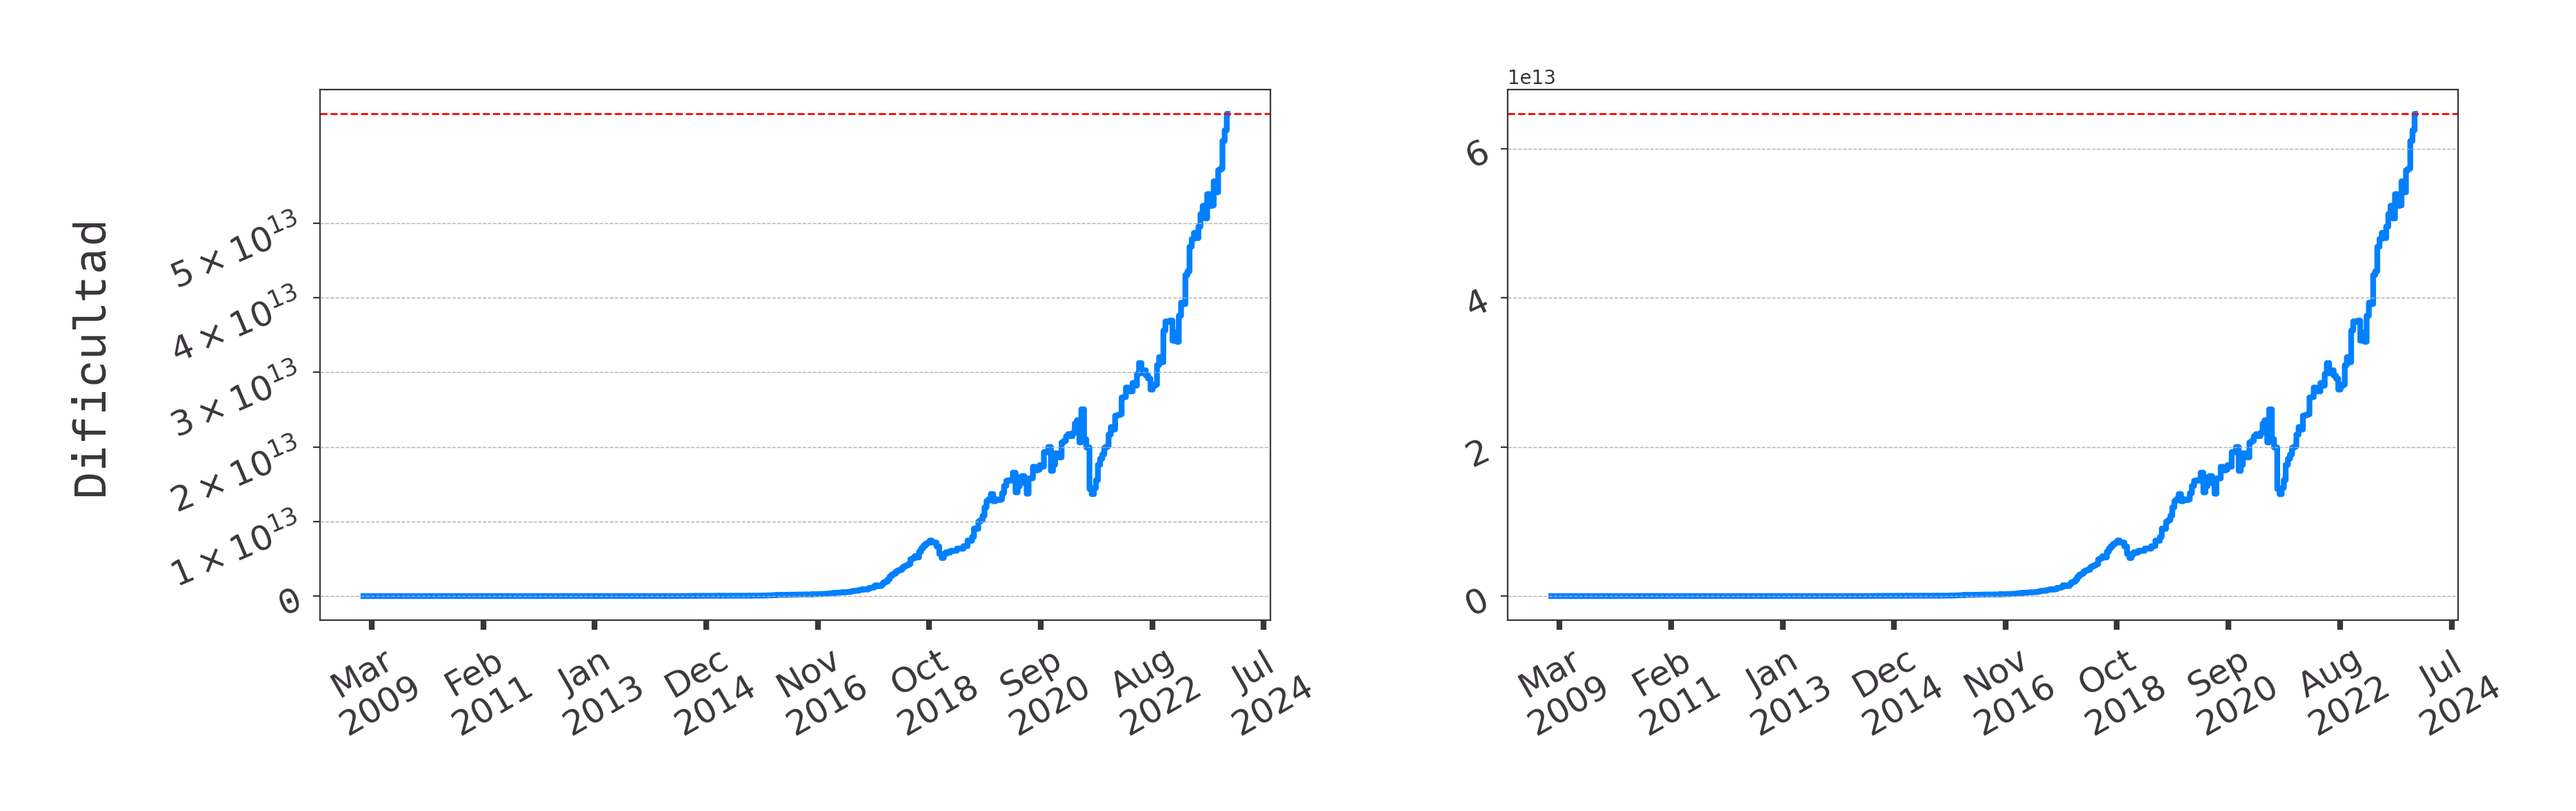
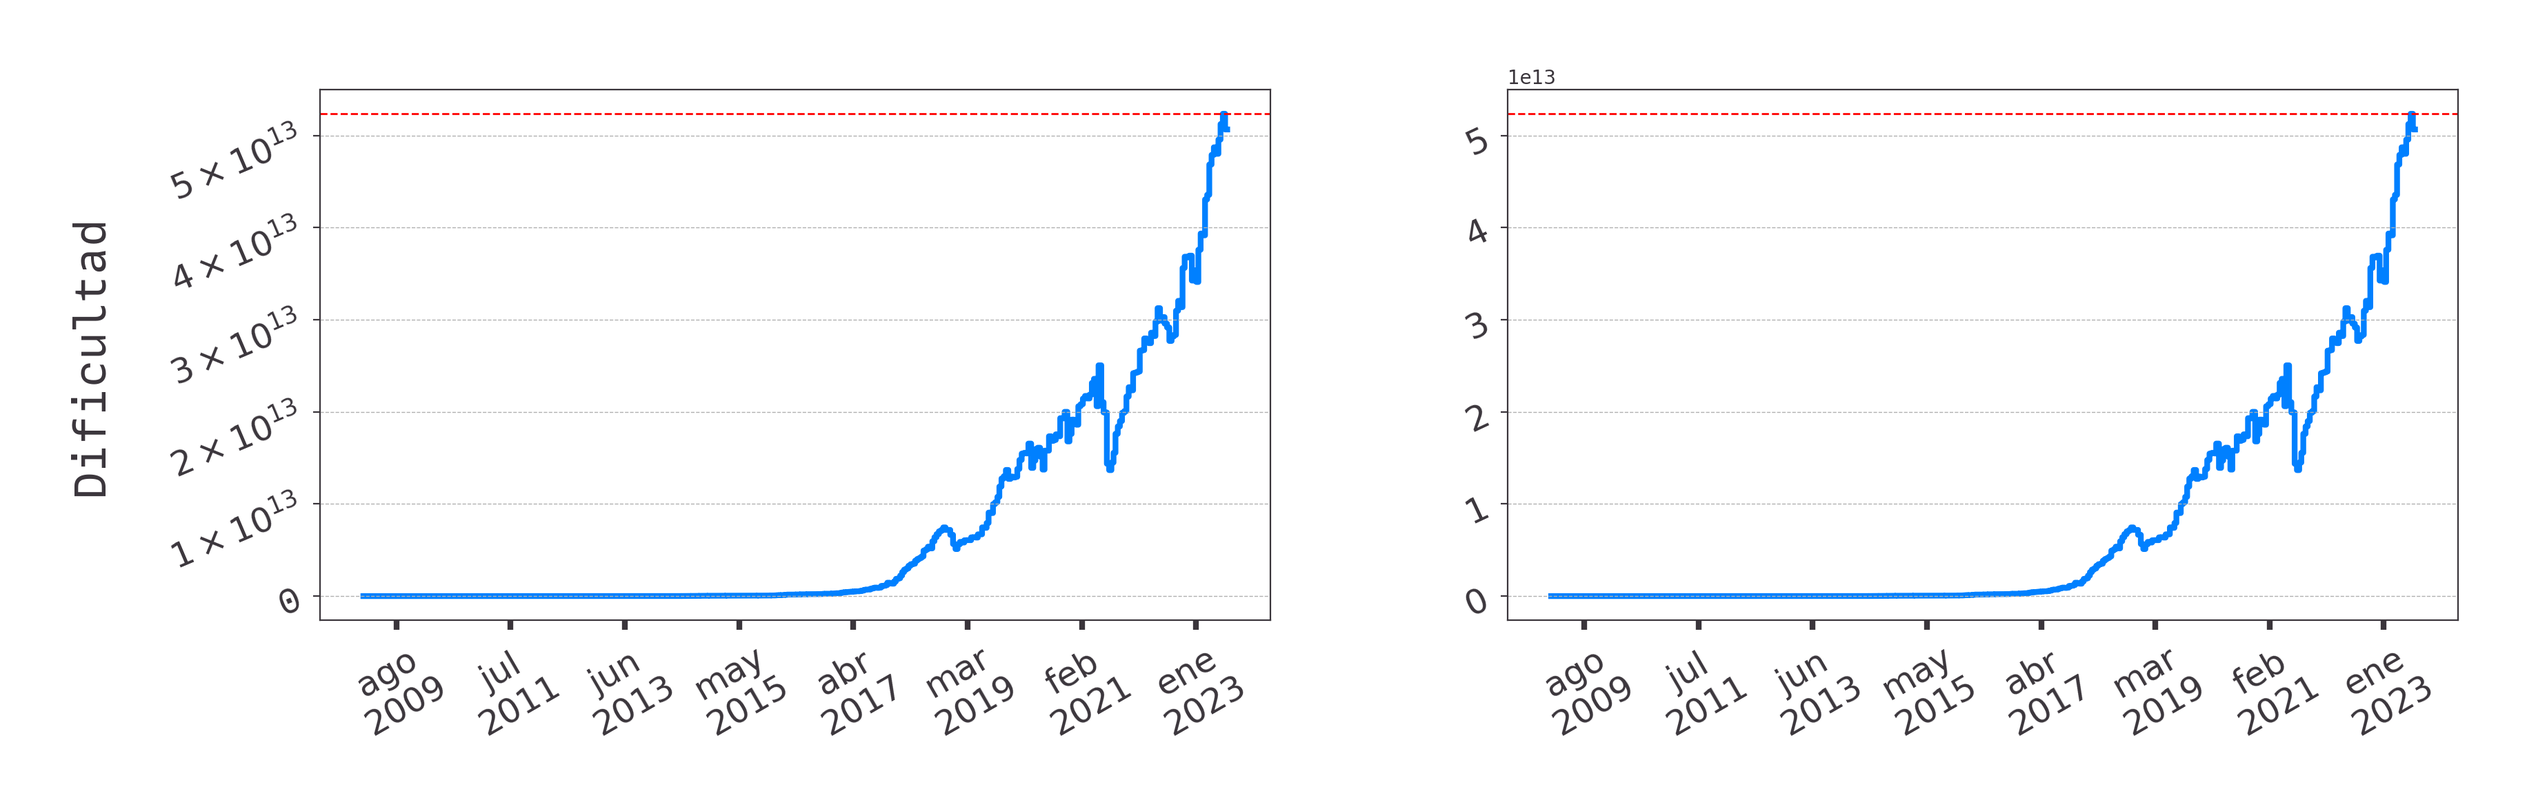
blanco

diff --git a/scripts/analisis/dificultad.py b/scripts/analisis/dificultad.py
@@ -14,7 +14,8 @@ from PIL import Image
 from datetime import datetime
 from app.styles import Estilos, colores
 from app.readata import leer_data,time_data,estado_data,last_block
-
+import locale
+locale.setlocale(locale.LC_TIME, 'es_ES.UTF-8')
 
 # Cambiar la tipografia
 fpath = os.path.join('bins/MonoLisaSimpson.ttf')
@@ -62,6 +63,7 @@ def crear_imagen_total(tipo='estilo_dark'):
     #ax[0].set_yscale('log')
     locator = mdates.MonthLocator(interval=23)
     formatter = mdates.DateFormatter('%b\n%Y')
+    formatter.locale = locale.getlocale()
     ax[0].xaxis.set_major_locator(locator)
     ax[0].xaxis.set_major_formatter(formatter)
     ax[0].xaxis.set_tick_params(labelsize=18, rotation=30,length=5,width=3)
@@ -181,6 +183,7 @@ def crear_imagen_h(tipo='estilo_dark'):
 
     locator1 = mdates.MonthLocator(interval=9)
     formatter1 = mdates.DateFormatter('%b\n%Y')
+    formatter1.locale = locale.getlocale()
     ax[0,0].xaxis.set_major_locator(locator1)
     ax[0,0].xaxis.set_major_formatter(formatter1)
     ax[0,0].xaxis.set_tick_params(labelsize=12, rotation=30,length=5,width=3)

diff --git a/scripts/analisis/block_size.py b/scripts/analisis/block_size.py
@@ -14,6 +14,8 @@ from matplotlib import font_manager as fm
 from PIL import Image
 from app.styles import Estilos, colores
 from app.readata import leer_data, time_data
+import locale
+locale.setlocale(locale.LC_TIME, 'es_ES.UTF-8')
 
 # Cambiar la tipografia
 fpath = os.path.join('bins/MonoLisaSimpson.ttf')
@@ -49,8 +51,14 @@ def crear_imagen(tipo='estilo_dark'):
     ax.spines['top'].set_visible(False)
     ax.spines['right'].set_visible(False)
 
+    #locator = mdates.MonthLocator(interval=10)
+    #formatter = mdates.DateFormatter('%B\ndel %Y')
+    
     locator = mdates.MonthLocator(interval=17)
     formatter = mdates.DateFormatter('%b\n%Y')
+
+    formatter.locale = locale.getlocale()
+
     ax.xaxis.set_major_locator(locator)
     ax.xaxis.set_major_formatter(formatter)
     ax.xaxis.set_tick_params(labelsize=15, rotation=30)

diff --git a/scripts/analisis/hashrate.py b/scripts/analisis/hashrate.py
@@ -26,7 +26,8 @@ from matplotlib import font_manager as fm
 from PIL import Image
 from datetime import datetime
 from app.styles import Estilos, colores
-
+import locale
+locale.setlocale(locale.LC_TIME, 'es_ES.UTF-8')
 
 # tomamos los valores de la red
 chainw, timestamp = leer_data('chainwork','time_b')
@@ -70,6 +71,7 @@ def crear_imagen_total(tipo='estilo_dark'):
     #ax[0].set_yscale('log')
     locator = mdates.MonthLocator(interval=23)
     formatter = mdates.DateFormatter('%b\n%Y')
+    formatter.locale = locale.getlocale()
     ax[0].xaxis.set_major_locator(locator)
     ax[0].xaxis.set_major_formatter(formatter)
     ax[0].xaxis.set_tick_params(labelsize=15, rotation=30,length=5,width=3)
